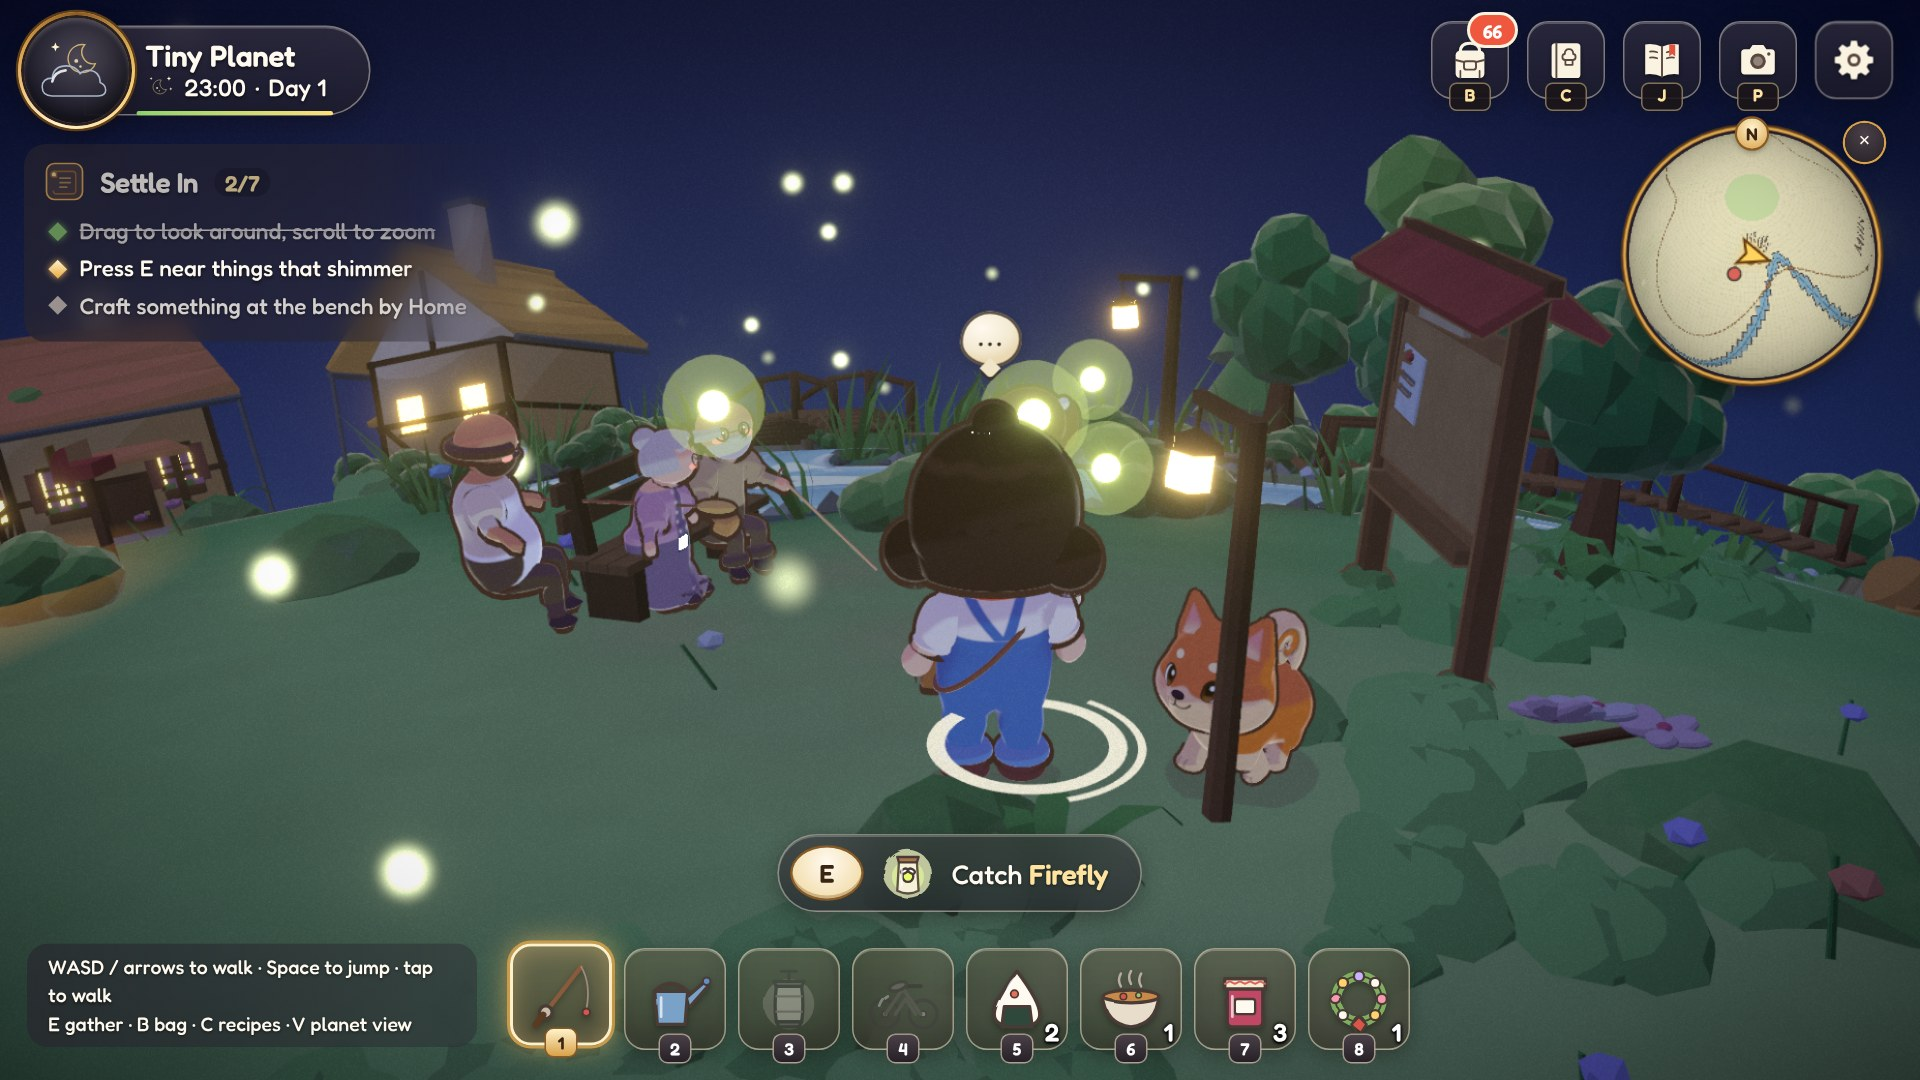
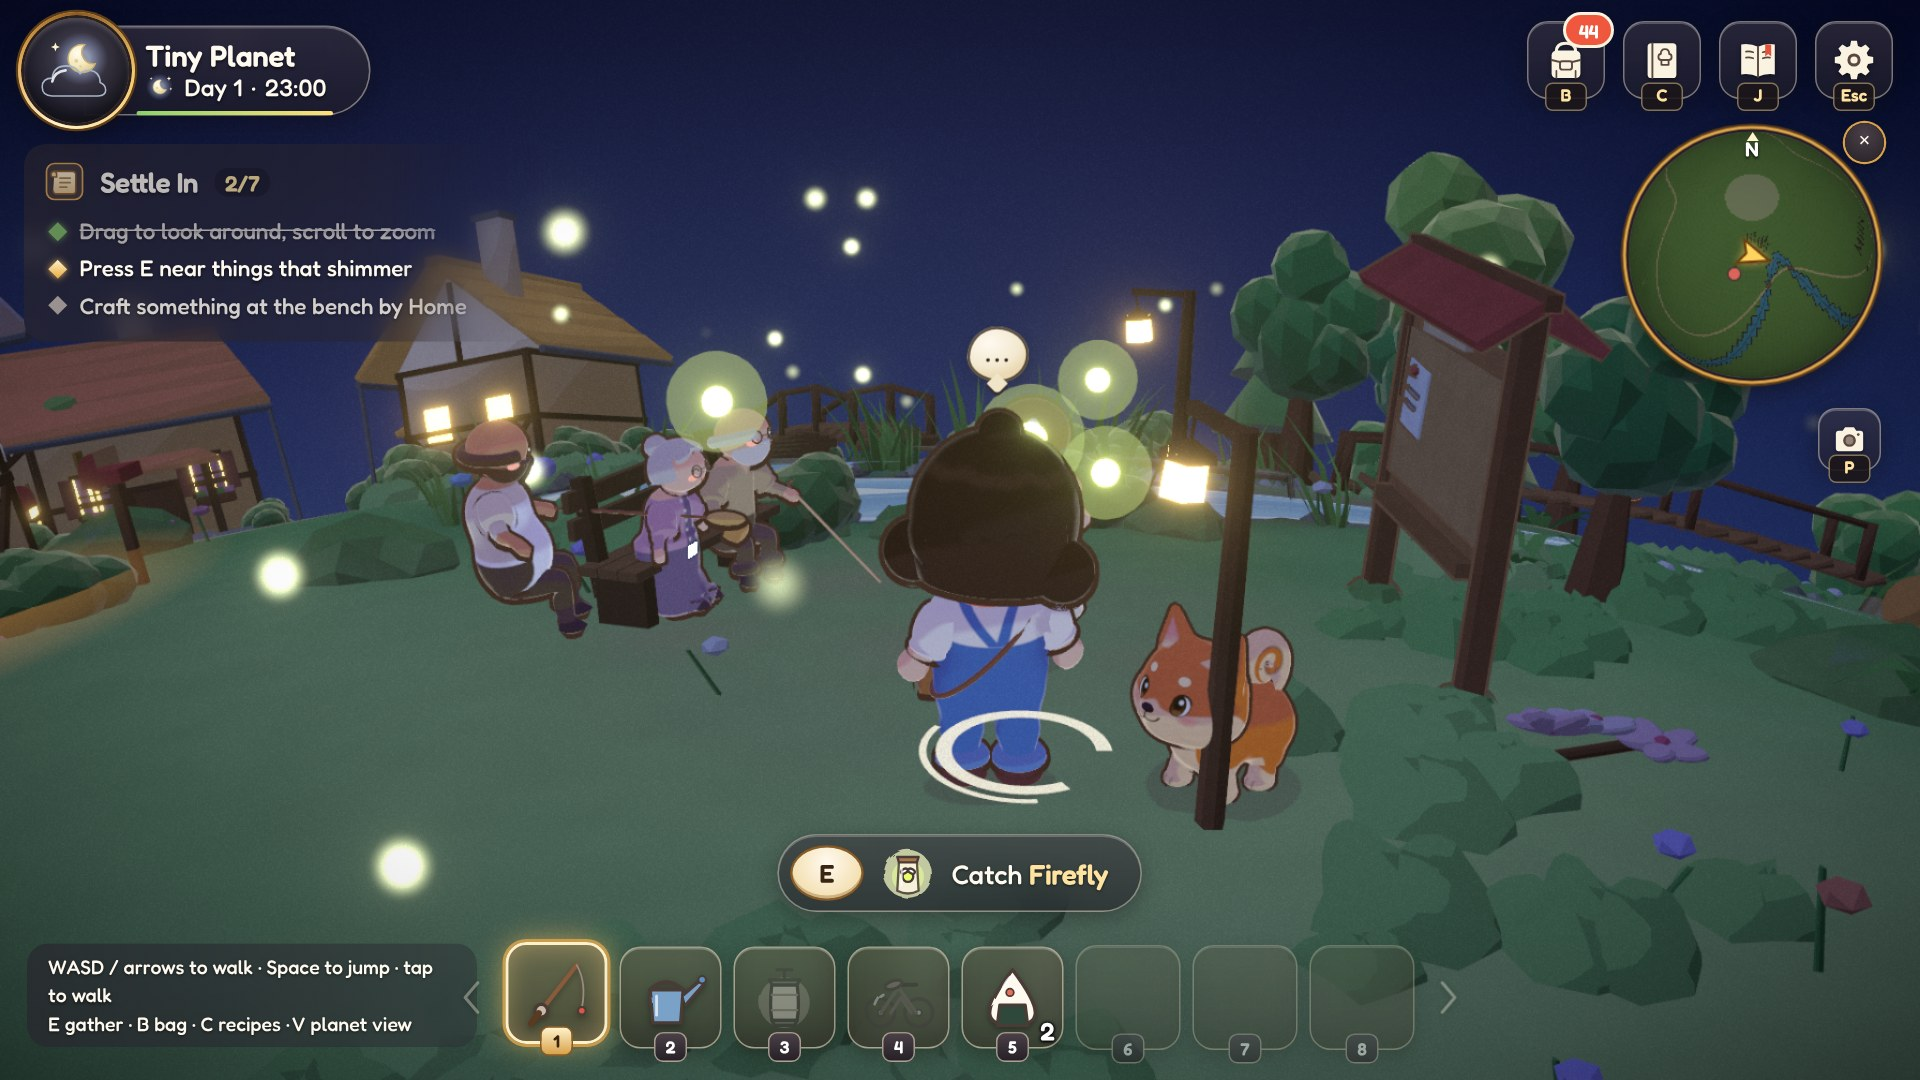
Glass HUD: match the agreed mock
- Weather art renders in full colour (the gradient defs sat in a display:none element, so every
  gradient fill dropped and only outlines showed); same fix brings back the quest scroll icon.
- Identity bar reads 'Day N · HH:MM'; Settings shows its Esc key hint.
- Photo button is the small square under the minimap on desktop.
- Minimap globe uses the planet's own colours (grass, water, sand path) and dims at night; plain N with
  a gold tick, as in the mock.
- Hotbar arrows always shown (dim with one page).
- Phone pad: cream filled Gather / Run / Jump glyphs, Gather on top with Run + Jump below, cream stick
  knob; in portrait the prompt, chips and ride chip sit above the taller pad.

Claude-Session: https://claude.ai/code/session_01CNaBwLKpSJahPyEzLh7zFH

diff --git a/src/minimap/Minimap.jsx b/src/minimap/Minimap.jsx
@@ -17,15 +17,16 @@ function paintBase(W, H, dpr, globe = false) {
   const X = (lon) => ((lon + Math.PI) / (2 * Math.PI)) * W, Y = (lat) => ((LAT1 - lat) / (LAT1 - LAT0)) * H
   const r = rng(7)
   // paper + soft grain + warm vignette
-  g.fillStyle = PAPER; g.fillRect(0, 0, W, H)
+  g.fillStyle = globe ? '#86b862' : PAPER; g.fillRect(0, 0, W, H)
   for (let i = 0; i < W * H * 0.06; i++) { g.fillStyle = `rgba(${r() < 0.5 ? '120,90,50' : '255,250,235'},${0.04 + r() * 0.06})`; g.fillRect(r() * W, r() * H, 1 + r(), 1 + r()) }
   if (!globe) { const vg = g.createRadialGradient(W / 2, H / 2, Math.min(W, H) * 0.3, W / 2, H / 2, Math.max(W, H) * 0.7); vg.addColorStop(0, 'rgba(0,0,0,0)'); vg.addColorStop(1, 'rgba(120,80,40,0.28)'); g.fillStyle = vg; g.fillRect(0, 0, W, H) }
   // terrain washes + water mask on a coarse grid
   const GX = 150, GY = Math.round(GX * H / W), wet = new Uint8Array(GX * GY), cw = W / GX, ch = H / GY
   for (let j = 0; j < GY; j++) for (let i = 0; i < GX; i++) { const lon = -Math.PI + (i + 0.5) / GX * 2 * Math.PI, lat = LAT1 - (j + 0.5) / GY * (LAT1 - LAT0), n = dir(lat, lon)
     if (waterAt(n, 0)) { wet[j * GX + i] = 1; continue }
-    const h = height(n); g.fillStyle = h > 0.35 ? `rgba(150,120,80,${Math.min(0.32, (h - 0.35) * 0.5)})` : `rgba(120,160,90,${0.1 + Math.max(0, h) * 0.25})`; g.fillRect(i * cw, j * ch, cw + 0.6, ch + 0.6) }
-  g.fillStyle = 'rgba(110,160,190,0.75)'; for (let k = 0; k < wet.length; k++) if (wet[k]) g.fillRect((k % GX) * cw, Math.floor(k / GX) * ch, cw + 0.6, ch + 0.6)
+    const h = height(n); if (globe) { g.fillStyle = h > 0.35 ? `rgba(130,110,80,${Math.min(0.45, (h - 0.35) * 0.7)})` : `rgba(40,90,40,${0.06 + Math.max(0, h) * 0.3})`; g.fillRect(i * cw, j * ch, cw + 0.6, ch + 0.6); continue }
+    g.fillStyle = h > 0.35 ? `rgba(150,120,80,${Math.min(0.32, (h - 0.35) * 0.5)})` : `rgba(120,160,90,${0.1 + Math.max(0, h) * 0.25})`; g.fillRect(i * cw, j * ch, cw + 0.6, ch + 0.6) }
+  g.fillStyle = globe ? 'rgba(90,170,210,0.95)' : 'rgba(110,160,190,0.75)'; for (let k = 0; k < wet.length; k++) if (wet[k]) g.fillRect((k % GX) * cw, Math.floor(k / GX) * ch, cw + 0.6, ch + 0.6)
   // ink shoreline: pixel edges of the wet mask, a little jitter for the hand-drawn wobble
   g.strokeStyle = INK; g.lineWidth = 0.9; g.lineCap = 'round'; g.beginPath(); const jt = () => (r() - 0.5) * 0.5
   for (let j = 0; j < GY; j++) for (let i = 0; i < GX; i++) { if (!wet[j * GX + i]) continue; const x = i * cw, y = j * ch
@@ -39,7 +40,7 @@ function paintBase(W, H, dpr, globe = false) {
     for (let k = 0; k <= N; k++) { const [lon, lat] = ll(f(k / N * Math.PI * 2).normalize()), x = X(lon), y = Y(lat); if (px === null || Math.abs(x - px) > W / 2) g.moveTo(x, y); else g.lineTo(x + (r() - 0.5) * 0.4, y + (r() - 0.5) * 0.4); px = x }
     g.stroke(); g.restore() }
   curve(streamDir, 600, 'rgba(70,120,160,0.9)', 1.1)
-  curve(pathDir, 500, '#8a6c46', 1.4, [3, 2.2])
+  curve(pathDir, 500, globe ? '#ecd9a8' : '#8a6c46', globe ? 2.2 : 1.4, globe ? [] : [3, 2.2])
   // forest: little ink tree glyphs inside the forest + giant zones
   const tree = (x, y, s) => { g.fillStyle = 'rgba(80,120,70,0.85)'; g.strokeStyle = INK; g.lineWidth = 0.6; g.beginPath(); g.moveTo(x, y - s); g.lineTo(x + s * 0.7, y + s * 0.5); g.lineTo(x - s * 0.7, y + s * 0.5); g.closePath(); g.fill(); g.stroke() }
   for (const k of ['forest', 'giant']) { const z = ZONES[k]; for (let i = 0; i < (k === 'forest' ? 22 : 6); i++) { const a = r() * 6.28, d = Math.sqrt(r()) * z.r; const lat = z.lat + Math.sin(a) * d, lon = z.lon + Math.cos(a) * d / Math.max(0.3, Math.cos(z.lat)); const n = dir(lat, lon); if (waterAt(n, -0.05)) continue; const [lo, la] = ll(n); tree(X(lo), Y(la), 2.6 + r()) } }
@@ -69,15 +70,15 @@ function makeGlobe(D) {
   const out = new ImageData(D, D), o = out.data, R2 = D / 2, cells = []
   for (let j = 0; j < D; j++) for (let i = 0; i < D; i++) { const x = (i + 0.5 - R2) / R2, y = (R2 - j - 0.5) / R2, rr = x * x + y * y; if (rr <= 1) cells.push(i, j, x, y, Math.sqrt(1 - rr)) }
   const C = new Float32Array(cells)
-  const draw = (lon0, lat0) => {
-    const s0 = Math.sin(lat0), c0 = Math.cos(lat0)
+  const draw = (lon0, lat0, night = 0) => {
+    const dim = 1 - 0.5 * night, s0 = Math.sin(lat0), c0 = Math.cos(lat0)
     for (let k = 0; k < C.length; k += 5) { const x = C[k + 2], y = C[k + 3], z = C[k + 4]
       const lat = Math.asin(Math.max(-1, Math.min(1, z * s0 + y * c0))), lon = lon0 + Math.atan2(x, z * c0 - y * s0)
       let r, g, b
       if (lat > LAT1 || lat < LAT0) { [r, g, b] = POLE } else {
         const u = ((((lon + Math.PI) / (2 * Math.PI)) % 1 + 1) % 1) * TW | 0, v = Math.min(TH - 1, ((LAT1 - lat) / (LAT1 - LAT0)) * TH | 0), t = (v * TW + u) * 4
         r = td[t]; g = td[t + 1]; b = td[t + 2] }
-      const l = 0.62 + 0.38 * z + 0.12 * Math.max(0, x * -0.4 + y * 0.6) // soft sphere shading, light from the upper left
+      const l = (0.62 + 0.38 * z + 0.12 * Math.max(0, x * -0.4 + y * 0.6)) * dim // soft sphere shading, light from the upper left; dim at night
       const p = ((C[k + 1] | 0) * D + (C[k] | 0)) * 4; o[p] = r * l; o[p + 1] = g * l; o[p + 2] = b * l; o[p + 3] = 255 }
     return out }
   // where a planet direction lands on the disc (null when it is round the back)
@@ -97,7 +98,7 @@ export default function Minimap() {
       const P = window.__player, H_ = window.__home; if (!P) return
       const s = performance.now()
       const inside = H_?.inside, n = inside && window.__layout?.homeN ? window.__layout.homeN : P.n, [lon, lat] = ll(n)
-      g.setTransform(1, 0, 0, 1, 0, 0); g.putImageData(globe.draw(lon, lat), 0, 0); g.setTransform(dpr, 0, 0, dpr, 0, 0)
+      g.setTransform(1, 0, 0, 1, 0, 0); g.putImageData(globe.draw(lon, lat, window.__game?.G?.night || 0), 0, 0); g.setTransform(dpr, 0, 0, dpr, 0, 0)
       const k = D0 / 2, dot = (lo, la, fill, r) => { const q = globe.project(lo, la, lon, lat); if (!q) return; g.fillStyle = fill; g.strokeStyle = INK; g.lineWidth = 0.9; g.beginPath(); g.arc(q[0] / dpr, q[1] / dpr, r, 0, 6.28); g.fill(); g.stroke() }
       const L = window.__layout; if (L?.homeN && !inside) { const [hl, ha] = ll(L.homeN); dot(hl, ha, '#d9655b', 3.2) }
       const Dg = window.__dog; if (Dg?.n && !inside) { const [dl, da] = ll(Dg.n); dot(dl, da, '#c98a4b', 2.6) }

diff --git a/src/ui/glass/glass.css b/src/ui/glass/glass.css
@@ -95,10 +95,10 @@ html:has(.sb-veil) .mm-wrap,html:has(.sb-veil) .tp-title{display:none}
 .mm-wrap .mm-map{width:164px;height:164px;border-radius:50%;transform:none;background:#2a2430;
   box-shadow:0 0 0 2px #2a2024,0 0 0 4px var(--gold-mid),0 0 0 5.5px #5e3e1a,0 8px 18px rgba(10,6,4,.45),inset 0 0 0 1px rgba(255,255,255,.2)}
 .mm-wrap .mm-btn{right:-6px;top:-6px;border:0;background:radial-gradient(circle at 50% 30%,#4a4048,#262026);color:var(--t1);box-shadow:0 0 0 1.5px var(--gold-mid),0 2px 6px rgba(0,0,0,.4)}
-.mm-n{position:absolute;left:50%;top:-9px;transform:translateX(-50%);width:20px;height:20px;border-radius:50%;display:grid;place-items:center;pointer-events:none;
-  font:700 11px/1 Fredoka,sans-serif;color:#3a2412;background:radial-gradient(circle at 50% 30%,var(--gold-hi),var(--gold-mid));box-shadow:0 0 0 1.5px var(--gold-lo),0 2px 4px rgba(0,0,0,.4)}
+.mm-n{position:absolute;left:50%;top:5px;transform:translateX(-50%);pointer-events:none;font:700 13px/1 Fredoka,sans-serif;color:#fff;text-shadow:0 1px 2px rgba(0,0,0,.8)}
+.mm-n::before{content:'';position:absolute;left:50%;top:-9px;transform:translateX(-50%);border:4px solid transparent;border-bottom:6px solid var(--gold-hi)}
 .mm-touch .mm-map,html.tp-touch .mm-touch .mm-map{width:96px;height:96px}
-.mm-touch .mm-n{width:16px;height:16px;font-size:9px;top:-7px}
+.mm-touch .mm-n{font-size:10px;top:4px}
 @media (orientation:landscape) and (max-height:500px){.mm-touch .mm-map{width:86px;height:86px}}
 
 /* controls hint: bottom-left on desktop now the corner is free (it fades after a while) */
@@ -147,10 +147,33 @@ html:not(.tp-touch) .tp-ui .tp-chips{bottom:116px}
 html.tp-touch .tp-pad .tp-acts .tp-btn{background:radial-gradient(circle at 50% 35%,rgba(70,62,70,.5),rgba(26,22,28,.62))!important;-webkit-backdrop-filter:var(--g-blur);backdrop-filter:var(--g-blur);
   border:0;box-shadow:0 0 0 2.5px rgba(255,248,232,.82),0 0 0 4px rgba(40,30,30,.35),0 6px 14px rgba(10,6,4,.35),inset 0 2px 2px rgba(255,255,255,.18)!important}
 html.tp-touch .tp-pad .tp-acts .tp-btn::after{display:none}
-html.tp-touch .tp-pad .tp-acts .tp-btn svg{stroke:var(--t1)!important;filter:drop-shadow(0 1px 1.5px rgba(0,0,0,.5))}
 html.tp-touch .tp-pad .tp-acts .tp-btn.down,html.tp-touch .tp-pad .tp-acts .tp-btn.on{box-shadow:0 0 0 2.5px var(--gold),0 0 18px rgba(255,200,100,.55),inset 0 0 14px rgba(255,200,100,.3)!important}
-.tp-run{right:0;bottom:calc(var(--act) + 14px);width:62px;height:62px}
 html.tp-touch .tp-stick{background:radial-gradient(circle,rgba(40,34,40,.18),rgba(40,34,40,.38));box-shadow:0 0 0 2px rgba(255,248,232,.55),0 6px 16px rgba(10,6,4,.25);border-radius:50%}
 
 @media (prefers-reduced-motion:reduce){.tp-ui .tp-btns.g-top .tp-btn{transition:none}}
 html.tp-touch .mm-wrap .mm-btn{width:44px;height:44px;font-size:18px;right:-34px;top:-4px}
+
+/* gradient defs for the glyphs: must stay rendered (a display:none parent drops every gradient fill) */
+.g-defs{position:absolute;width:0;height:0;overflow:hidden;pointer-events:none}
+/* desktop photo button: the small square under the minimap, as in the agreed mock (still one of the 5 menu buttons) */
+html:not(.tp-touch) .tp-ui .tp-btns.g-top .tp-cambtn{position:absolute;right:8px;top:258px;width:42px;height:42px;border-radius:12px}
+html:not(.tp-touch) .tp-ui .tp-btns.g-top .tp-cambtn .g-gl{width:26px;height:26px}
+html:not(.tp-touch):not(:has(.mm-map)) .tp-ui .tp-btns.g-top .tp-cambtn{top:74px}
+.g-chev:disabled{opacity:.35;cursor:default}
+/* phone pad as in the agreed mock: big Gather on top, Run + Jump below; cream filled glyphs; cream stick knob */
+html.tp-touch .tp-pad .tp-acts{width:200px;height:186px}
+html.tp-touch .tp-pad .tp-act{right:calc((200px - var(--act)) / 2 - 8px);top:0;bottom:auto}
+html.tp-touch .tp-pad .tp-run{left:0;right:auto;bottom:0;width:66px;height:66px}
+html.tp-touch .tp-pad .tp-jump{right:0;bottom:0;width:66px;height:66px}
+@media (max-height:500px){html.tp-touch .tp-pad .tp-acts{width:184px;height:166px}html.tp-touch .tp-pad .tp-act{right:calc((184px - var(--act)) / 2 - 8px)}
+  html.tp-touch .tp-pad .tp-run,html.tp-touch .tp-pad .tp-jump{width:60px;height:60px}}
+html.tp-touch .tp-pad .tp-acts .tp-btn svg{stroke:revert!important;filter:drop-shadow(0 1px 1.5px rgba(0,0,0,.45))}
+html.tp-touch .tp-pad .tp-acts .tp-btn .ic{display:grid;place-items:center}
+.g-pg{display:block;width:32px;height:32px}.g-pg svg{width:100%!important;height:100%!important}
+html.tp-touch .tp-pad .tp-act .g-pg{width:46px;height:46px}
+html.tp-touch .tp-stick .knob{border:0!important;border-radius:50%!important;background:radial-gradient(circle at 45% 35%,#fffaf0,#e9dcc4 60%,#c9b89a)!important;box-shadow:0 4px 10px rgba(0,0,0,.4),inset 0 -3px 4px rgba(0,0,0,.15)!important}
+html.tp-touch .tp-stick.run .knob{background:radial-gradient(circle at 45% 35%,#fff6d8,#f1c86a 60%,#d9a24a)!important}
+/* portrait / tall phones: the pad is taller now (Gather above Run + Jump), so prompts and chips sit above it */
+@media (orientation:portrait),(min-height:521px){
+  html.tp-touch .tp-ui .tp-prompt,html.tp-touch .tp-ui .tp-placebar,html.tp-touch .tp-ui .tp-chips{bottom:calc(env(safe-area-inset-bottom,0px) + 220px)}
+  html.tp-touch .tp-ui .tp-ride{bottom:calc(env(safe-area-inset-bottom,0px) + 284px)}}

diff --git a/src/game/UI.jsx b/src/game/UI.jsx
@@ -57,7 +57,7 @@ function Clock() {
   return <div className="tp-clock g-ident" title={label}>
     <div className="g-ring" role="img" aria-label={'Weather: ' + label}><Svg className="g-wx" html={WX[wx] || WX.clear} /></div>
     <div className="g-bar g-glass"><span className="g-ttl">Tiny Planet</span>
-      <span className="g-sub"><Svg html={WX[small]} /><b>{String(hh).padStart(2, '0')}:{String(mm).padStart(2, '0')}</b>·<small>Day {G.s.day + 1}</small></span>
+      <span className="g-sub"><Svg html={WX[small]} /><small>Day {G.s.day + 1}</small>·<b>{String(hh).padStart(2, '0')}:{String(mm).padStart(2, '0')}</b></span>
       <span className={'tp-nrg' + (e <= 25 ? ' low' : '') + (e <= 0 ? ' empty' : '')} role="meter" aria-valuenow={Math.round(e)} aria-valuemin={0} aria-valuemax={100} aria-label={'Energy ' + Math.round(e)} title={'Energy ' + Math.round(e)}><i style={{ width: e + '%' }} /></span></div>
   </div>
 }
@@ -193,7 +193,7 @@ function DeskButtons() {
     <button className="tp-btn g-glass" onClick={() => setPanel('recipes')} aria-label="Recipes" title="Recipes (C)"><Gl id="recipes" /><span>Recipes</span><em className="g-kc">C</em></button>
     {SCM.m && <><button className="tp-btn g-glass tp-jbtn" onClick={() => setPanel('journal')} aria-label="Journal" title="Journal (J)"><Gl id="journal" /><span>Journal</span><em className="g-kc">J</em></button>
     <button className="tp-btn g-glass tp-cambtn" onClick={() => SCM.m.photo(true)} aria-label="Photo mode" title="Photo (P)"><Gl id="camera" /><span>Photo</span><em className="g-kc">P</em></button></>}
-    <button className="tp-btn g-glass tp-gearbtn" onClick={() => setPanel('settings')} aria-label="Settings" title="Settings"><Gl id="gear" /><span>Settings</span></button></div>
+    <button className="tp-btn g-glass tp-gearbtn" onClick={() => setPanel('settings')} aria-label="Settings" title="Settings (Esc)"><Gl id="gear" /><span>Settings</span><em className="g-kc">Esc</em></button></div>
 }
 function PhoneMenu({ mode, onClose }) {
   const walk = mode === 'follow'
@@ -256,7 +256,7 @@ export function GameUI() {
   }, [])
   const panel = G.ui.panel === 'craft' ? 'recipes' : G.ui.panel
   return <div className="tp-ui">
-    <IconDefs /><span style={{ display: 'none' }} dangerouslySetInnerHTML={{ __html: GLYPH_DEFS }} />
+    <IconDefs /><span className="g-defs" aria-hidden="true" dangerouslySetInnerHTML={{ __html: GLYPH_DEFS }} />
     <Clock /><RideChip />
     {TOUCH ? <PhoneCorners /> : <DeskButtons />}
     {!TOUCH && <QuestTracker />}{!TOUCH && <Hotbar sbm={SBM} />}

diff --git a/src/touch.jsx b/src/touch.jsx
@@ -7,6 +7,8 @@ import React, { useEffect, useRef, useState } from 'react'
 import { q, VIEW, subscribeView, subscribeStick } from './common.jsx'
 import { emitStick } from './signals.js'
 import './touch.css'
+import { GL } from './ui/glass/glyphs.js'
+const Glyph = ({ id }) => <span className="g-pg" dangerouslySetInnerHTML={{ __html: GL[id] }} />
 const tq = q.get('touch')
 export const TOUCH = tq === '1' || (tq !== '0' && typeof matchMedia !== 'undefined' && (matchMedia('(pointer: coarse)').matches || (navigator.maxTouchPoints > 0 && matchMedia('(hover: none)').matches)))
 export const PAD = { x: 0, y: 0, mag: 0, run: false, runLock: false, active: false } // runLock: the Run toggle button
@@ -47,7 +49,7 @@ function RunBtn() {
   const [on, setOn] = useState(PAD.runLock)
   const press = (e) => { e.preventDefault(); e.stopPropagation(); buzz(10); PAD.runLock = !PAD.runLock; setOn(PAD.runLock) }
   return <button className={'tp-btn paper tp-run' + (on ? ' on' : '')} aria-label={on ? 'Stop running' : 'Run'} aria-pressed={on} onPointerDown={press} onContextMenu={e => e.preventDefault()}>
-    <span className="ic" aria-hidden="true">{ICON.run}</span></button>
+    <span className="ic" aria-hidden="true">{<Glyph id="run" />}</span></button>
 }
 function RotateHint() {
   const [show, setShow] = useState(false)
@@ -87,8 +89,8 @@ export function TouchPad() {
   return <div className={'tp-pad' + (idle ? ' tp-idle' : '')}>
     {walk && !talk && <Stick />}
     <div className="tp-acts">
-      {walk && <Btn cls="tp-jump" label="Jump" icon={ICON.foot} onPress={() => tapKey(' ', 'Space')} />}
-      {walk && <Btn cls="tp-act" label="Action" aria="Gather, talk or use" icon={ICON.hand} onPress={() => tapKey('e', 'KeyE')} />}
+      {walk && <Btn cls="tp-jump" label="Jump" icon={<Glyph id="jump" />} onPress={() => tapKey(' ', 'Space')} />}
+      {walk && <Btn cls="tp-act" label="Action" aria="Gather, talk or use" icon={<Glyph id="hand" />} onPress={() => tapKey('e', 'KeyE')} />}
       {walk && <RunBtn />}
     </div>
     <RotateHint />

diff --git a/src/ui/glass/HudExtras.jsx b/src/ui/glass/HudExtras.jsx
@@ -53,12 +53,12 @@ export function Hotbar({ sbm }) {
   const slots = all.slice(p * HOT_N, p * HOT_N + HOT_N)
   const sel = G.ui.hot && slots.some(s => s.id === G.ui.hot) ? G.ui.hot : null
   return <div className="g-hotbar" role="toolbar" aria-label="Hotbar">
-    {pages > 1 && <button className="g-chev" onClick={() => setPage((p + pages - 1) % pages)} aria-label="Previous hotbar page"><Svg html={GL.chevL} /></button>}
+    <button className="g-chev" disabled={pages < 2} onClick={() => setPage((p + pages - 1) % pages)} aria-label="Previous hotbar page"><Svg html={GL.chevL} /></button>
     {Array.from({ length: HOT_N }, (_, i) => { const s = slots[i]
       if (!s) return <div key={'e' + i} className="g-slot empty"><span className="g-num">{i + 1}</span></div>
       const base = s.id.replace(/_perfect$/, '')
       return <button key={s.id} className={'g-slot' + (s.id === sel ? ' sel' : '') + (s.off ? ' off' : '')} onClick={() => fireHot(i, sbm, p)} title={`${itemName(s.id)} (${i + 1})`} aria-label={`${itemName(s.id)}, key ${i + 1}`}>
         <Icon id={base} size={54} wash={false} dim={s.off} />{s.n != null && <span className="g-ct">{s.n}</span>}{s.id.endsWith('_perfect') && <i className="g-star">✦</i>}<span className="g-num">{i + 1}</span></button> })}
-    {pages > 1 && <button className="g-chev" onClick={() => setPage((p + 1) % pages)} aria-label="Next hotbar page"><Svg html={GL.chevR} /></button>}
+    <button className="g-chev" disabled={pages < 2} onClick={() => setPage((p + 1) % pages)} aria-label="Next hotbar page"><Svg html={GL.chevR} /></button>
   </div>
 }
